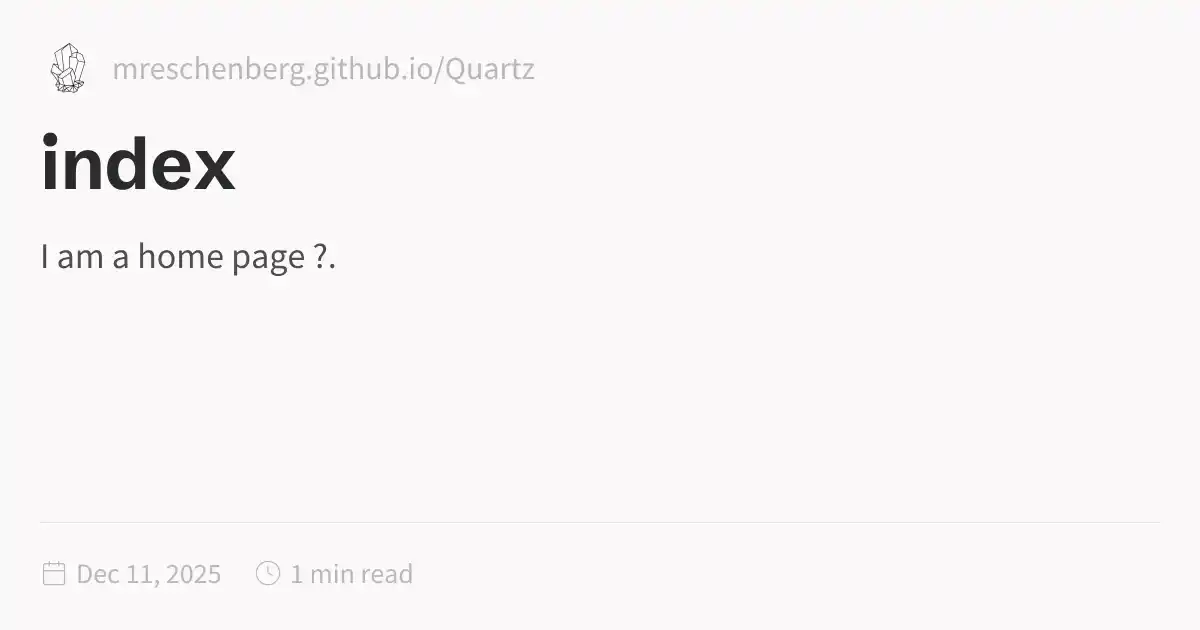
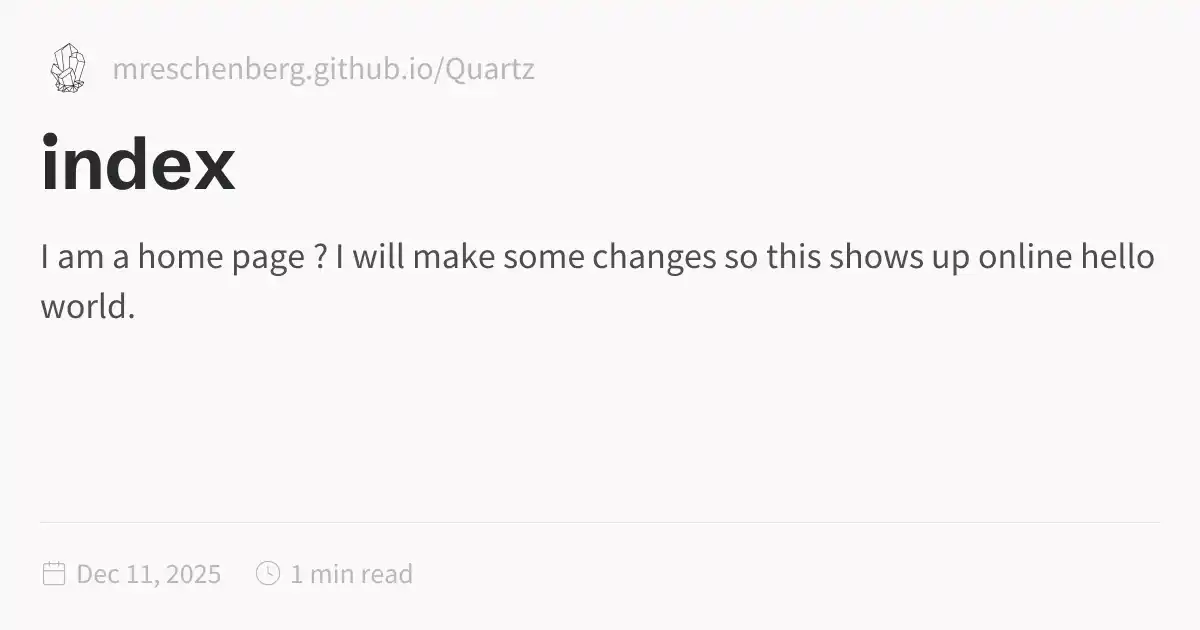
Quartz sync: Dec 11, 2025, 2:41 PM

diff --git a/docs/index.html b/docs/index.html
@@ -1,5 +1,5 @@
 <!DOCTYPE html>
-<html lang="en" dir="ltr"><head><title>index</title><meta charset="utf-8"/><link rel="preconnect" href="https://fonts.googleapis.com"/><link rel="preconnect" href="https://fonts.gstatic.com"/><link rel="stylesheet" href="https://fonts.googleapis.com/css2?family=Schibsted Grotesk:wght@400;700&amp;family=Source Sans Pro:ital,wght@0,400;0,600;1,400;1,600&amp;family=IBM Plex Mono:wght@400;600&amp;display=swap"/><link rel="preconnect" href="https://cdnjs.cloudflare.com" crossorigin="anonymous"/><meta name="viewport" content="width=device-width, initial-scale=1.0"/><meta name="og:site_name" content="Quartz 4"/><meta property="og:title" content="index"/><meta property="og:type" content="website"/><meta name="twitter:card" content="summary_large_image"/><meta name="twitter:title" content="index"/><meta name="twitter:description" content="I am a home page ?."/><meta property="og:description" content="I am a home page ?."/><meta property="og:image:alt" content="I am a home page ?."/><meta property="twitter:domain" content="mreschenberg.github.io/Quartz"/><meta property="og:url" content="https://mreschenberg.github.io/Quartz/index"/><meta property="twitter:url" content="https://mreschenberg.github.io/Quartz/index"/><link rel="icon" href="./static/icon.png"/><meta name="description" content="I am a home page ?."/><meta name="generator" content="Quartz"/><link href="./index.css" rel="stylesheet" type="text/css" data-persist="true"/><style>.expand-button {
+<html lang="en" dir="ltr"><head><title>index</title><meta charset="utf-8"/><link rel="preconnect" href="https://fonts.googleapis.com"/><link rel="preconnect" href="https://fonts.gstatic.com"/><link rel="stylesheet" href="https://fonts.googleapis.com/css2?family=Schibsted Grotesk:wght@400;700&amp;family=Source Sans Pro:ital,wght@0,400;0,600;1,400;1,600&amp;family=IBM Plex Mono:wght@400;600&amp;display=swap"/><link rel="preconnect" href="https://cdnjs.cloudflare.com" crossorigin="anonymous"/><meta name="viewport" content="width=device-width, initial-scale=1.0"/><meta name="og:site_name" content="Quartz 4"/><meta property="og:title" content="index"/><meta property="og:type" content="website"/><meta name="twitter:card" content="summary_large_image"/><meta name="twitter:title" content="index"/><meta name="twitter:description" content="I am a home page ? I will make some changes so this shows up online hello world."/><meta property="og:description" content="I am a home page ? I will make some changes so this shows up online hello world."/><meta property="og:image:alt" content="I am a home page ? I will make some changes so this shows up online hello world."/><meta property="twitter:domain" content="mreschenberg.github.io/Quartz"/><meta property="og:url" content="https://mreschenberg.github.io/Quartz/index"/><meta property="twitter:url" content="https://mreschenberg.github.io/Quartz/index"/><link rel="icon" href="./static/icon.png"/><meta name="description" content="I am a home page ? I will make some changes so this shows up online hello world."/><meta name="generator" content="Quartz"/><link href="./index.css" rel="stylesheet" type="text/css" data-persist="true"/><style>.expand-button {
   position: absolute;
   display: flex;
   float: right;
@@ -115,7 +115,8 @@ pre:hover > .expand-button {
   padding: 0 12px;
   font-size: 14px;
 }
[2 lines of base64/hex data omitted]
+<p>I will make some changes so this shows up online hello world</p></article><hr/><div class="page-footer"></div></div><div class="right sidebar"><div class="graph"><h3>Graph View</h3><div class="graph-outer"><div class="graph-container" data-cfg="{&quot;drag&quot;:true,&quot;zoom&quot;:true,&quot;depth&quot;:1,&quot;scale&quot;:1.1,&quot;repelForce&quot;:0.5,&quot;centerForce&quot;:0.3,&quot;linkDistance&quot;:30,&quot;fontSize&quot;:0.6,&quot;opacityScale&quot;:1,&quot;showTags&quot;:true,&quot;removeTags&quot;:[],&quot;focusOnHover&quot;:false,&quot;enableRadial&quot;:false}"></div><button class="global-graph-icon" aria-label="Global Graph"><svg version="1.1" xmlns="http://www.w3.org/2000/svg" xmlns:xlink="http://www.w3.org/1999/xlink" x="0px" y="0px" viewBox="0 0 55 55" fill="currentColor" xml:space="preserve"><path d="M49,0c-3.309,0-6,2.691-6,6c0,1.035,0.263,2.009,0.726,2.86l-9.829,9.829C32.542,17.634,30.846,17,29,17
                 s-3.542,0.634-4.898,1.688l-7.669-7.669C16.785,10.424,17,9.74,17,9c0-2.206-1.794-4-4-4S9,6.794,9,9s1.794,4,4,4
                 c0.74,0,1.424-0.215,2.019-0.567l7.669,7.669C21.634,21.458,21,23.154,21,25s0.634,3.542,1.688,4.897L10.024,42.562
                 C8.958,41.595,7.549,41,6,41c-3.309,0-6,2.691-6,6s2.691,6,6,6s6-2.691,6-6c0-1.035-0.263-2.009-0.726-2.86l12.829-12.829
